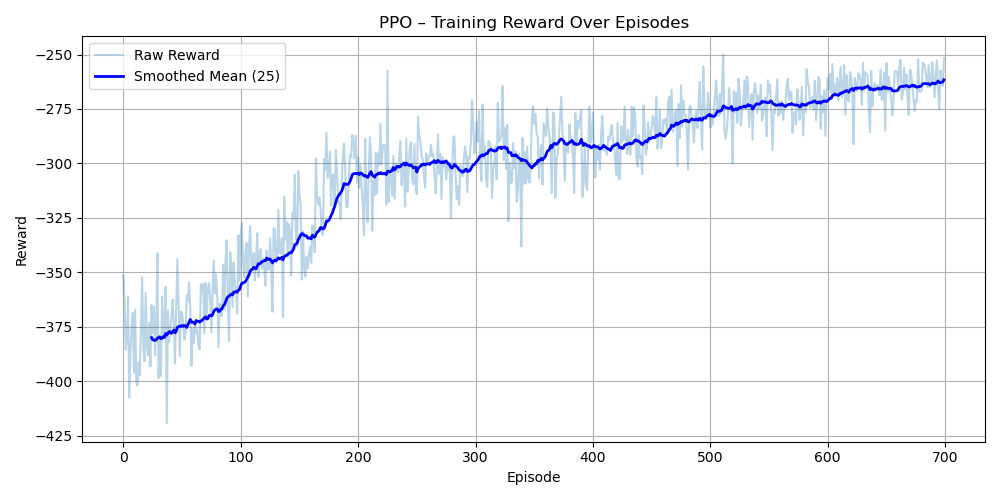
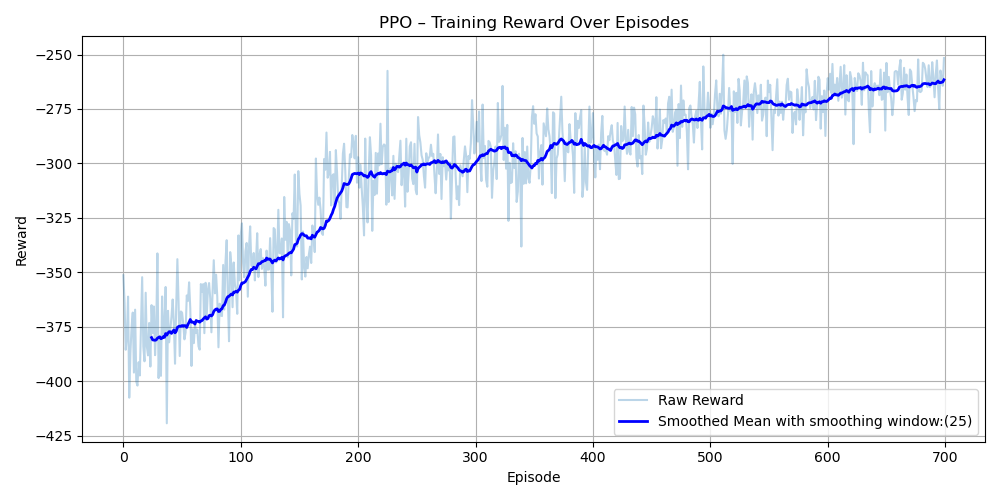
~Bash scripts implemented for plotting

Changed region(s): [[0.62, 0.78, 0.992, 0.87], [0.093, 0.09, 0.279, 0.18]]

diff --git a/utils/plot_utils.py b/utils/plot_utils.py
@@ -12,7 +12,7 @@ def plot_single(path_csv, algo_name, output_dir, smoothing_window=25):
 
     plt.figure(figsize=(10, 5))
     plt.plot(episodes, rewards, alpha=0.3, label="Raw Reward")
-    plt.plot(episodes, smoothed, color='blue', linewidth=2, label=f"Smoothed Mean ({smoothing_window})")
+    plt.plot(episodes, smoothed, color='blue', linewidth=2, label=f"Smoothed Mean with smoothing window:({smoothing_window})")
     plt.xlabel("Episode")
     plt.ylabel("Reward")
     plt.title(f"{algo_name} – Training Reward Over Episodes")
